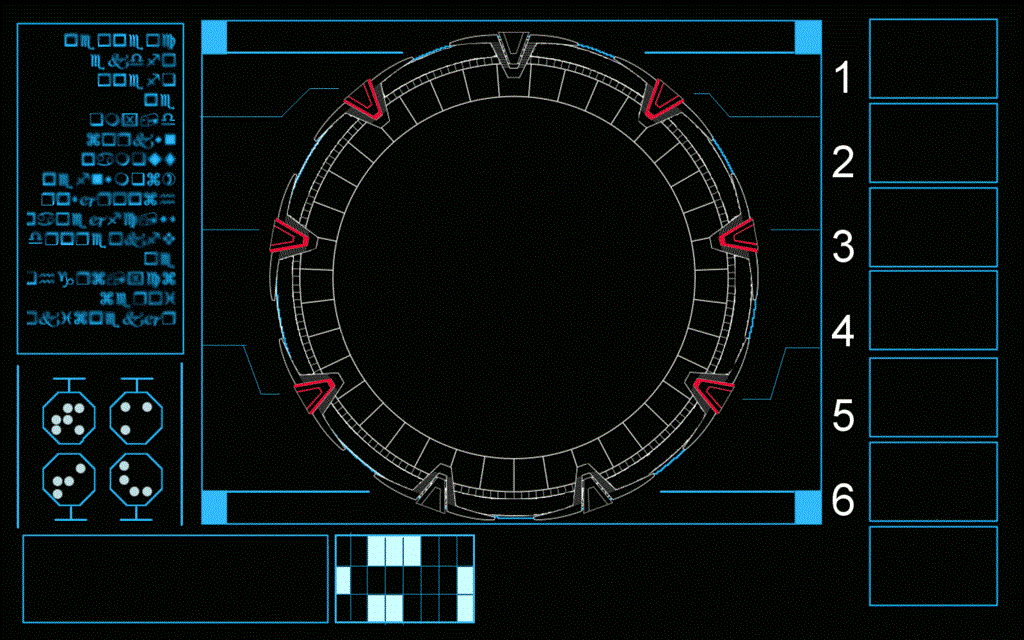
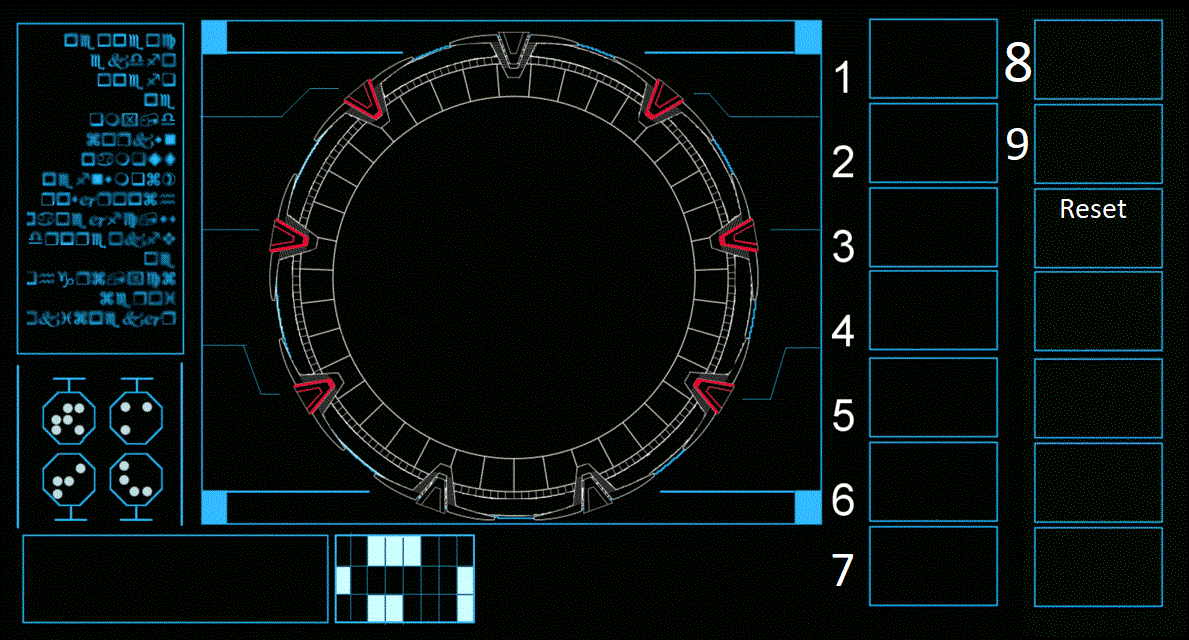
iTS ALMOST DONE

diff --git a/StarGateLock-main/stargate.py b/StarGateLock-main/stargate.py
@@ -180,24 +180,114 @@ def arraycheck():
             else:
                 ourvarright = True
                 thedata = str(ourvar)
-                theimage = 'g' + thedata + '.png'
+                theimage = 'gg' + thedata + '.png'
                 thefileweneed = str(theimage)
                 photot = PhotoImage(file=thefileweneed)
+                photot = photot.subsample(2,2)
                 photoimaget = photot.subsample(1, 1)
-                Button(root, image=photoimaget).place(x=1035, y=105)
-
+                Button(root, image=photoimaget).place(x=950, y=98)
     if liste == 2:
         seq2 = sequence[1]
+        ourvarright = False
+        ourvar = 0
+        while ourvarright == False:
+            if vardata != ourvar:
+                ourvar = ourvar + 1
+
+            else:
+                ourvarright = True
+                thedata = str(ourvar)
+                theimaget = 'gg' + thedata + '.png'
+                thefileweneedt = str(theimaget)
+                photot = PhotoImage(file=thefileweneedt)
+                photot = photot.subsample(2, 2)
+                photoimaget = photot.subsample(1, 1)
+                Button(root, image=photoimaget).place(x=950, y=182)
     if liste == 3:
         seq3 = sequence[2]
+        ourvarright = False
+        ourvar = 0
+        while ourvarright == False:
+            if vardata != ourvar:
+                ourvar = ourvar + 1
+
+            else:
+                ourvarright = True
+                thedata = str(ourvar)
+                theimaget = 'gg' + thedata + '.png'
+                thefileweneedt = str(theimaget)
+                photot = PhotoImage(file=thefileweneedt)
+                photot = photot.subsample(2, 2)
+                photoimaget = photot.subsample(1, 1)
+                Button(root, image=photoimaget).place(x=950, y=266)
     if liste == 4:
         seq4 = sequence[3]
+        ourvarright = False
+        ourvar = 0
+        while ourvarright == False:
+            if vardata != ourvar:
+                ourvar = ourvar + 1
+
+            else:
+                ourvarright = True
+                thedata = str(ourvar)
+                theimaget = 'gg' + thedata + '.png'
+                thefileweneedt = str(theimaget)
+                photot = PhotoImage(file=thefileweneedt)
+                photot = photot.subsample(2, 2)
+                photoimaget = photot.subsample(1, 1)
+                Button(root, image=photoimaget).place(x=950, y=350)
     if liste == 5:
         seq5 = sequence[4]
+        ourvarright = False
+        ourvar = 0
+        while ourvarright == False:
+            if vardata != ourvar:
+                ourvar = ourvar + 1
+
+            else:
+                ourvarright = True
+                thedata = str(ourvar)
+                theimaget = 'gg' + thedata + '.png'
+                thefileweneedt = str(theimaget)
+                photot = PhotoImage(file=thefileweneedt)
+                photot = photot.subsample(2, 2)
+                photoimaget = photot.subsample(1, 1)
+                Button(root, image=photoimaget).place(x=950, y=434)
     if liste == 6:
         seq6 = sequence[5]
+        ourvarright = False
+        ourvar = 0
+        while ourvarright == False:
+            if vardata != ourvar:
+                ourvar = ourvar + 1
+
+            else:
+                ourvarright = True
+                thedata = str(ourvar)
+                theimaget = 'gg' + thedata + '.png'
+                thefileweneedt = str(theimaget)
+                photot = PhotoImage(file=thefileweneedt)
+                photot = photot.subsample(2, 2)
+                photoimaget = photot.subsample(1, 1)
+                Button(root, image=photoimaget).place(x=950, y=520)
     if liste == 7:
         seq7 = sequence[6]
+        ourvarright = False
+        ourvar = 0
+        while ourvarright == False:
+            if vardata != ourvar:
+                ourvar = ourvar + 1
+
+            else:
+                ourvarright = True
+                thedata = str(ourvar)
+                theimaget = 'gg' + thedata + '.png'
+                thefileweneedt = str(theimaget)
+                photot = PhotoImage(file=thefileweneedt)
+                photot = photot.subsample(2, 2)
+                photoimaget = photot.subsample(1, 1)
+                Button(root, image=photoimaget).place(x=950, y=604)
     if liste == 8:
         seq8 = sequence[7]
     if liste == 9:
